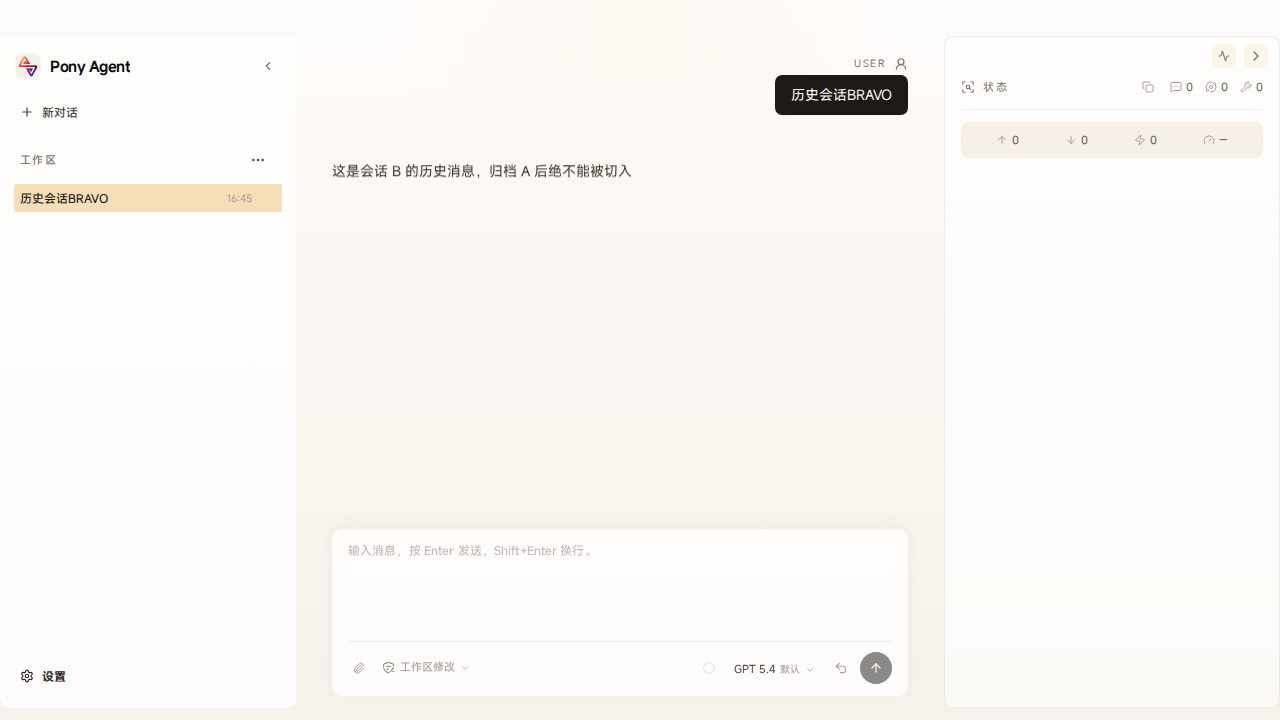
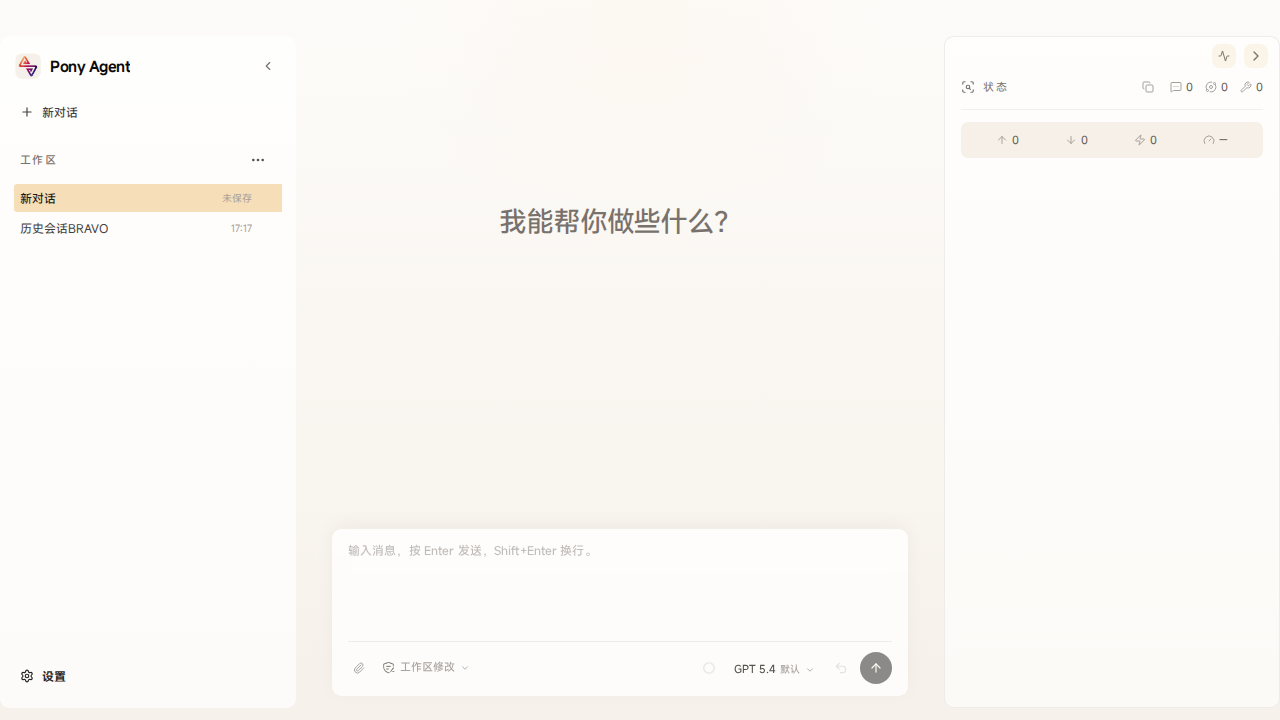
chore(dev-team): wave-12 green receipts, independent review verdict and cold-start reproduction evidence

diff --git a/.dev-team/contracts/wave-12-session-fallback.md b/.dev-team/contracts/wave-12-session-fallback.md
@@ -63,3 +63,25 @@
 - **A6**：invoke 抛错 → C6。
 - **A7**：浏览器真实链路（Playwright）：会话 A 有消息 → 归档 A → 工作区显示空态「我能帮你做些什么？」且侧栏不出现 A（未开归档视图）→ 截图 + Console Error = 0。
 - 既有 `tests/runtime-store.spec.ts` 中编码旧契约的断言必须按新契约改写（Test Agent 负责，需在收据中逐条列出）。
+
+## 6. 契约演进 wave-12.1（Lead 一票，2026-10-15）——冷启动落点不得为已归档会话
+
+**触发**：wave-12 独立复审（`.dev-team/review-l3r-wave12.json`）报告同族残留；Lead 已在真实浏览器**复现**（`.dev-team/evidence/repro-cold-start-archived.mjs`）：
+
+1. 干净启动 → 发一条消息（会话 `local-dev-session`）→ 归档当前会话 → 落点正确（全新 `pa_*` 空白会话，空态 ✓）；
+2. **整页重载（冷启动）→ `sessionId` 回到 `local-dev-session`（`archived: true`）并恢复其 2 条历史消息，工作区显示已归档会话内容** —— 与用户原始诉求「而不是已归档的会话」同族同症状。
+
+**根因**：`sessionList` 含 archived 项且按 `updatedAtMs` 降序（`runtime.ts:1085`），而两处初始化落点直接取 `sessionList[0]`：
+- `src/stores/runtime.ts:2451`：`const preferredSessionId = this.sessionList[0]?.conversationId ?? this.sessionId;`
+- `src/lib/runtime/sessions.ts:661`（`deriveInitStrategy`）：`const targetSessionId = sessionList[0]?.conversationId ?? currentSessionId;`
+
+**C8（新增契约）**：冷启动/初始化选择落点会话时必须跳过 `archived === true`：
+- 存在未归档会话 → 选其中 `updatedAtMs` 最大者（即 `sessionList` 中第一个未归档项）；
+- **全部已归档或无会话** → 进入全新空白会话（`phase === "idle"`、`messages` 为空），**不得**打开任何已归档会话。
+
+**A8/A9/A10（新增断言）**：
+- **A8**（store 级）：catalog = [archived A（updatedAt 更高，且有本地缓存）, 未归档 B] → init 后 `sessionId === B` 且 `messages` 为 B 的内容；
+- **A9**（store 级）：catalog 全部 archived → init 后 `messages` 为空、`sessionId` 不等于任何已归档 id、`phase === "idle"`；
+- **A10**（e2e 真实链路）：归档当前会话 → 整页重载 → 工作区**不得**显示被归档会话的历史内容 + Console Error = 0 + 截图。
+
+**写域扩展**：Executor 增加 `src/lib/runtime/sessions.ts`（`deriveInitStrategy` 归档过滤）。
